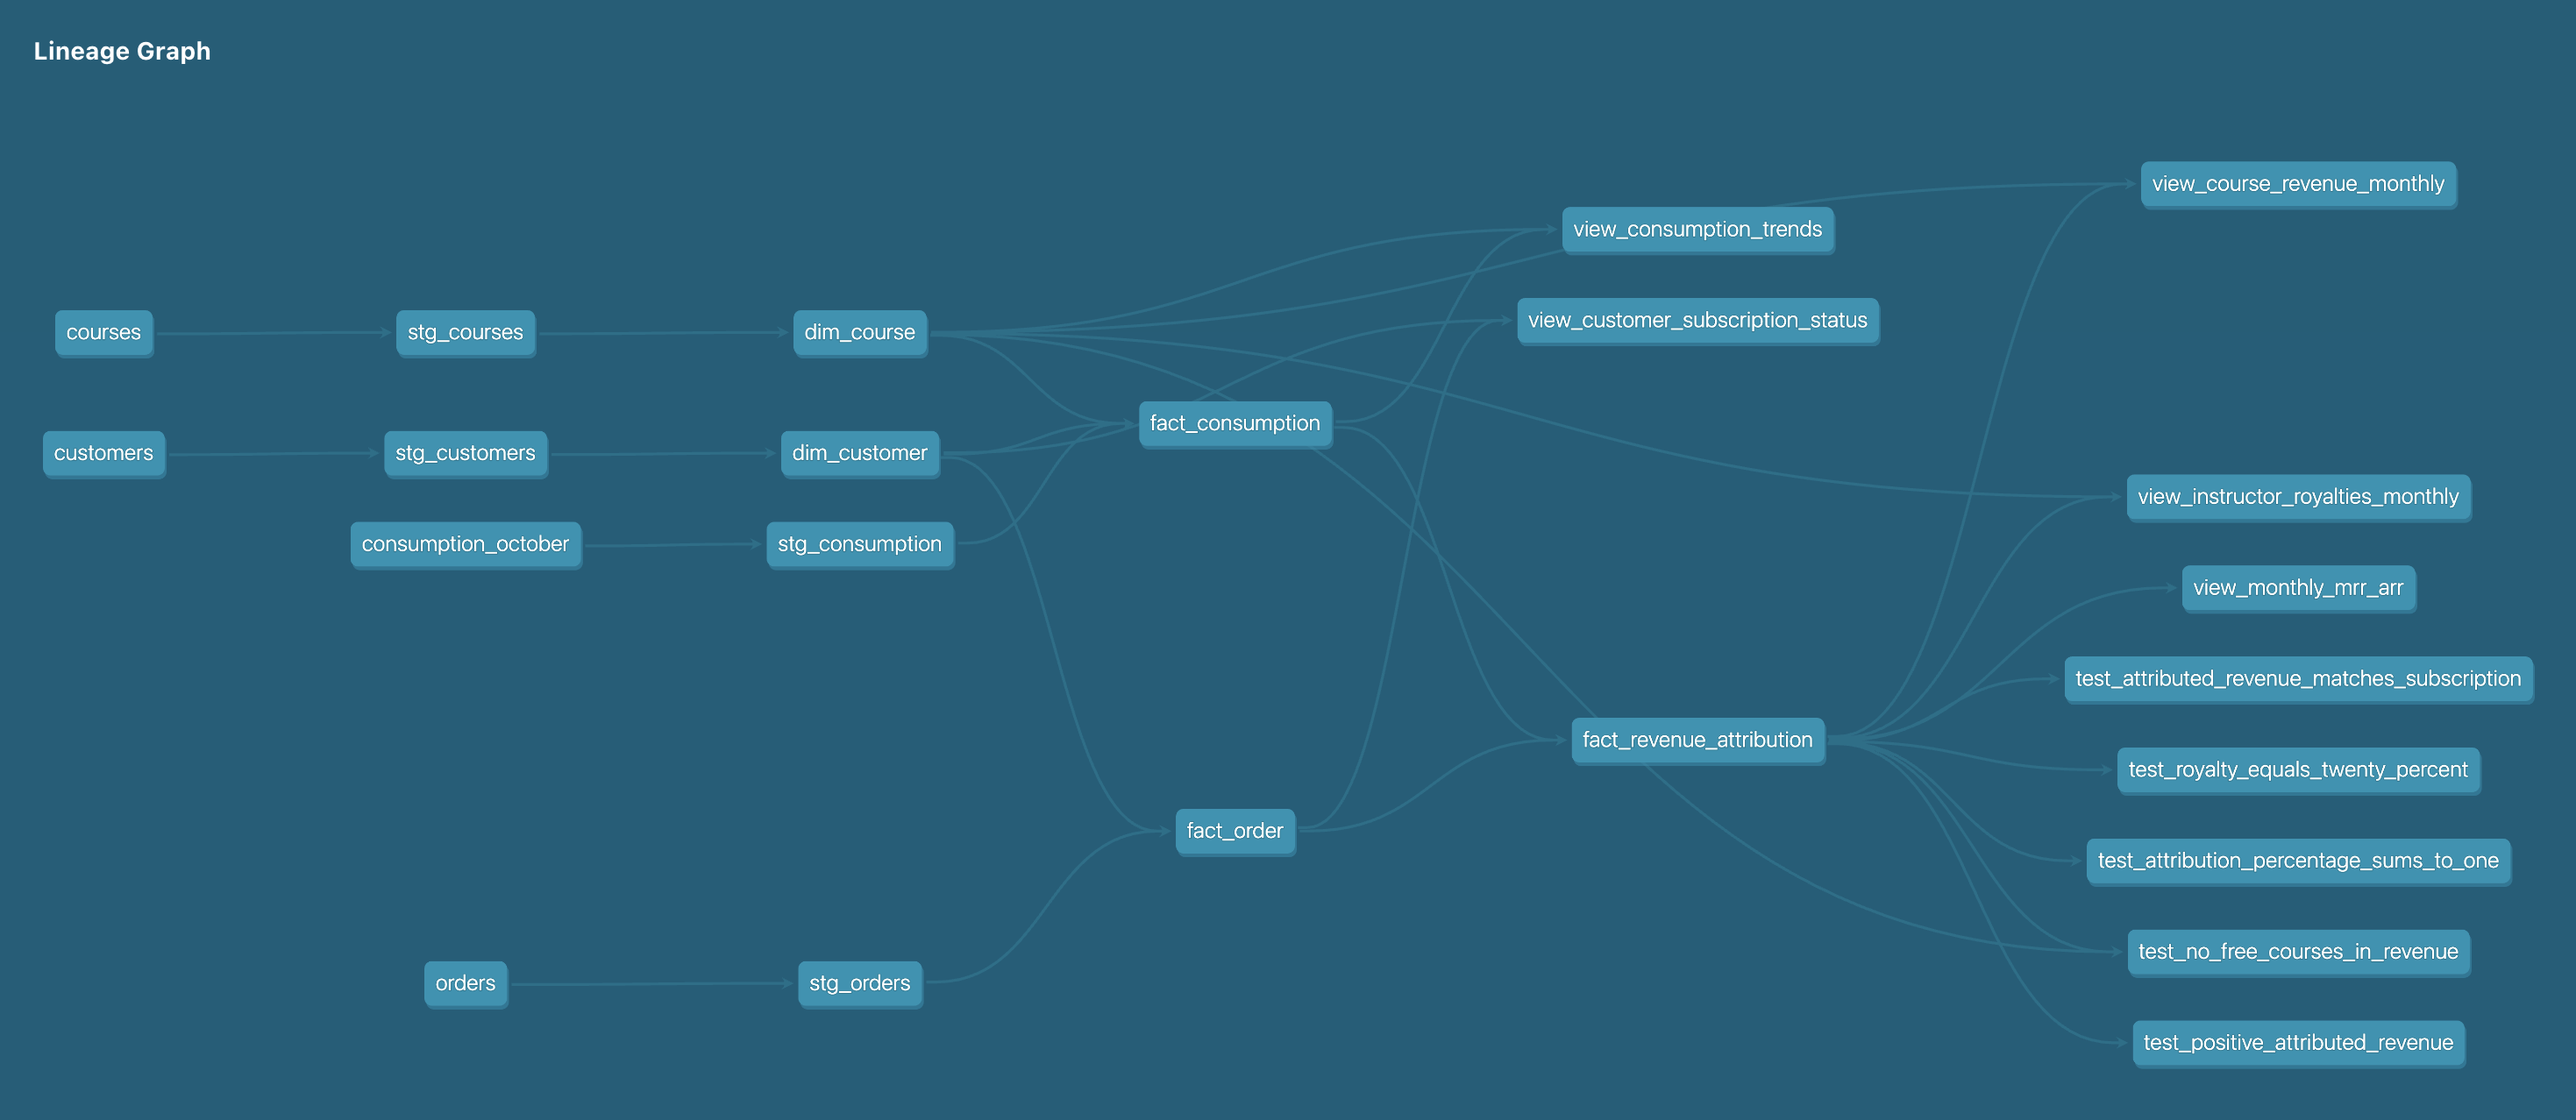
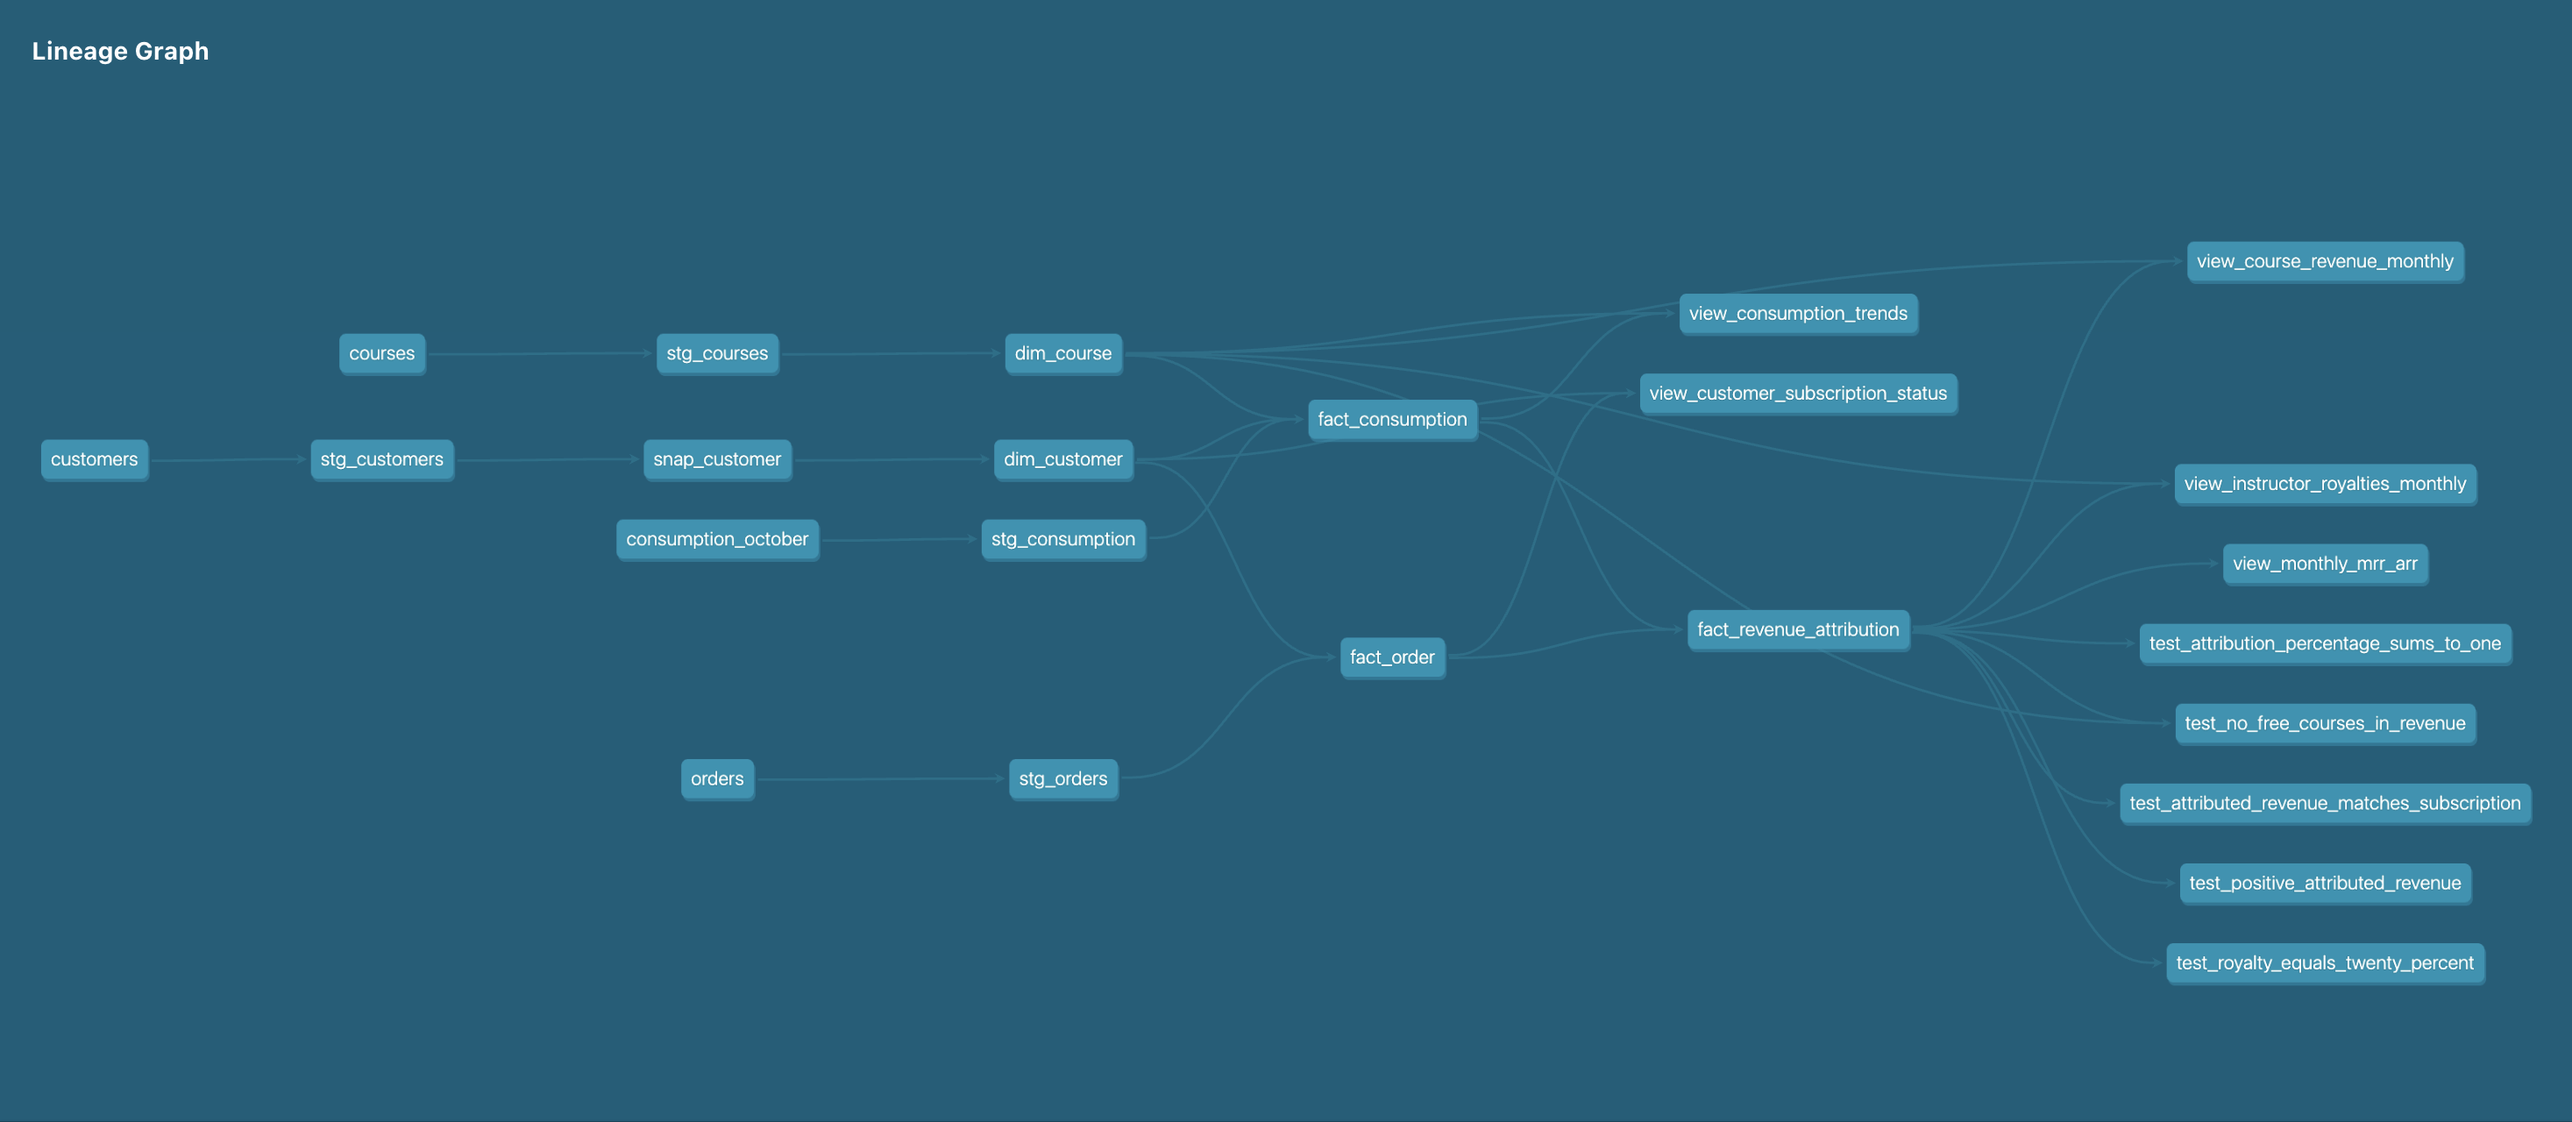
Update DEPLOYMENT.md with actual 6-task DAG, Airflow setup in SETUP.md, screenshots

diff --git a/DEPLOYMENT.md b/DEPLOYMENT.md
@@ -103,6 +103,8 @@ jobs:
 
 ## Airflow Orchestration
 
+> **Status:** DAG deployed and tested locally. All 6 tasks executed successfully in sequence.
+
 ### DAG Structure
 
 ```python
@@ -111,8 +113,13 @@ from airflow import DAG
 from airflow.operators.bash import BashOperator
 from datetime import datetime, timedelta
 
+DBT_PROJECT_DIR = "~/kodekloud_assignment"
+DBT_VENV_ACTIVATE = "source ~/data-stack/dbt-venv/bin/activate"
+
 default_args = {
     'owner': 'data-platform',
+    'depends_on_past': False,
+    'email_on_failure': True,
     'retries': 2,
     'retry_delay': timedelta(minutes=5),
 }
@@ -120,36 +127,56 @@ default_args = {
 with DAG(
     'kk_data_pipeline',
     default_args=default_args,
+    description='KodeKloud dbt pipeline: seed, run, test',
     schedule_interval='@daily',
     start_date=datetime(2022, 10, 1),
     catchup=False,
+    tags=['dbt', 'kodekloud', 'data-platform'],
 ) as dag:
 
-    seed = BashOperator(
+    dbt_seed = BashOperator(
         task_id='dbt_seed',
-        bash_command='cd ~/kodekloud_assignment && dbt seed',
+        bash_command=f'{DBT_VENV_ACTIVATE} && cd {DBT_PROJECT_DIR} && dbt seed --full-refresh',
     )
 
-    run = BashOperator(
-        task_id='dbt_run',
-        bash_command='cd ~/kodekloud_assignment && dbt run',
+    dbt_run_staging = BashOperator(
+        task_id='dbt_run_staging',
+        bash_command=f'{DBT_VENV_ACTIVATE} && cd {DBT_PROJECT_DIR} && dbt run --select models/staging',
     )
 
-    test = BashOperator(
+    dbt_run_dimensions = BashOperator(
+        task_id='dbt_run_dimensions',
+        bash_command=f'{DBT_VENV_ACTIVATE} && cd {DBT_PROJECT_DIR} && dbt run --select models/marts/dimensions',
+    )
+
+    dbt_run_facts = BashOperator(
+        task_id='dbt_run_facts',
+        bash_command=f'{DBT_VENV_ACTIVATE} && cd {DBT_PROJECT_DIR} && dbt run --select models/marts/facts',
+    )
+
+    dbt_run_analytics = BashOperator(
+        task_id='dbt_run_analytics',
+        bash_command=f'{DBT_VENV_ACTIVATE} && cd {DBT_PROJECT_DIR} && dbt run --select models/marts/analytics_views',
+    )
+
+    dbt_test = BashOperator(
         task_id='dbt_test',
-        bash_command='cd ~/kodekloud_assignment && dbt test',
+        bash_command=f'{DBT_VENV_ACTIVATE} && cd {DBT_PROJECT_DIR} && dbt test',
     )
 
-    seed >> run >> test
+    dbt_seed >> dbt_run_staging >> dbt_run_dimensions >> dbt_run_facts >> dbt_run_analytics >> dbt_test
 ```
 
 ### Schedule
 
 | Task | Frequency | Time |
 |------|-----------|------|
-| dbt seed | Daily (or on new data arrival) | 02:00 UTC |
-| dbt run | Daily | 02:15 UTC |
-| dbt test | Daily (after run) | 02:30 UTC |
+| dbt_seed | Daily (or on new data arrival) | 02:00 UTC |
+| dbt_run_staging | Daily (after seed) | 02:05 UTC |
+| dbt_run_dimensions | Daily (after staging) | 02:10 UTC |
+| dbt_run_facts | Daily (after dimensions) | 02:15 UTC |
+| dbt_run_analytics | Daily (after facts) | 02:20 UTC |
+| dbt_test | Daily (after analytics) | 02:25 UTC |
 
 ---
 
@@ -250,7 +277,7 @@ dbt run --target prod
 | dbt seeds (CSV) | Real-time source systems | Fivetran/Airbyte for ingestion |
 | Local PostgreSQL | Cloud data warehouse | BigQuery or Snowflake |
 | Full refresh models | Millions of rows | Incremental models with merge strategy |
-| Manual dbt commands | Scheduled runs | Airflow DAGs with alerting |
+| Airflow DAG (deployed locally) | Scheduled runs at scale | Cloud Composer with alerting |
 | Single schema | Multi-environment | Separate dev/staging/prod schemas |
 | No monitoring | Pipeline observability | Elementary or dbt Cloud for monitoring |
 

diff --git a/SETUP.md b/SETUP.md
@@ -186,9 +186,51 @@ dbt build
 
 Expected output: PASS=69 WARN=0 ERROR=0 SKIP=0 NO-OP=0 TOTAL=69
 
+## 8. Set Up Airflow (Optional — Orchestration)
+
+Create and activate the Airflow virtual environment:
+
+```bash
+cd ~/data-stack
+python3.11 -m venv airflow-venv
+source airflow-venv/bin/activate
+pip install --upgrade pip setuptools wheel
+
+AIRFLOW_VERSION=2.9.3
+PYTHON_VERSION=3.11
+CONSTRAINT_URL="https://raw.githubusercontent.com/apache/airflow/constraints-$${AIRFLOW_VERSION}/constraints-$${PYTHON_VERSION}.txt"
+
+pip install "apache-airflow==$${AIRFLOW_VERSION}" --constraint "$${CONSTRAINT_URL}"
+pip install psycopg2-binary
+
+export AIRFLOW_HOME=~/airflow
+airflow db migrate
+
+airflow users create \
+  --username admin \
+  --firstname Admin \
+  --lastname User \
+  --role Admin \
+  --email admin@example.com \
+  --password admin
+
+mkdir -p ~/airflow/dags
+cp ~/kodekloud_assignment/pipelines/orchestration/dbt_pipeline_dag.py ~/airflow/dags/
+
+source ~/data-stack/airflow-venv/bin/activate
+export AIRFLOW_HOME=~/airflow
+airflow webserver --port 8080
+
+source ~/data-stack/airflow-venv/bin/activate
+export AIRFLOW_HOME=~/airflow
+airflow scheduler
+
+
+
+```
 ---
 
-## 8. Verify the Output
+## 9. Verify the Output
 
 Connect to PostgreSQL and check the results:
 
@@ -216,7 +258,7 @@ select * from public.view_course_revenue_monthly limit 10;
 
 ---
 
-## 9. Troubleshooting
+## 10. Troubleshooting
 
 ### psql command not found
 Add PostgreSQL to PATH:
@@ -238,7 +280,7 @@ This is expected. The dbt_project.yml is already included in the repository. Ski
 
 ---
 
-## 10. Notes
+## 11. Notes
 
 - dbt seeds are used for CSV ingestion because the source data is static files.
 - If dbt init fails in an existing project directory, dbt_project.yml can be created manually (already included in repo).

diff --git a/TODO.md b/TODO.md
@@ -18,10 +18,10 @@ This document outlines improvements and features that would be added with more t
 - Use `merge` strategy with appropriate unique keys
 - Critical for production scale with millions of rows
 
-### 3. Airflow DAG Deployment
-- DAG file exists at `pipelines/orchestration/dbt_pipeline_dag.py`
-- Deploy to Airflow and test end-to-end scheduled execution
-- Add Slack alerting on task failures
+### 3. ~~Airflow DAG Deployment~~ ✅ DONE
+- DAG deployed and tested in local Airflow
+- All 6 tasks executed successfully: seed → staging → dimensions → facts → analytics → test
+- Slack alerting to be added for production
 
 ### 4. Date Dimension
 - Create a proper dim_date table for time-series analysis

diff --git a/ARCHITECTURE.md b/ARCHITECTURE.md
@@ -341,7 +341,7 @@ erDiagram
 | Ingestion | dbt seeds (CSV) | Fivetran/Airbyte from source systems |
 | Database | Local PostgreSQL | BigQuery (KodeKloud's preferred) |
 | Models | Full refresh tables | Incremental models with merge strategy |
-| Orchestration | Manual dbt commands | Airflow DAGs with daily schedule |
+| Orchestration | Airflow DAG (deployed and tested) | Airflow DAGs with daily schedule |
 | SCD Type 2 | dbt snapshot (snap_customer) | dbt snapshots with incremental tracking |
 | Testing | 50 dbt tests | dbt tests + Great Expectations + anomaly detection |
 | Monitoring | Manual validation | Elementary or dbt Cloud for observability |

diff --git a/README.md b/README.md
@@ -342,7 +342,6 @@ See [ARCHITECTURE.md](ARCHITECTURE.md) for detailed architecture design and trad
 
 If given more time, I would add:
 
-2. **Airflow DAG** to orchestrate dbt seed, run, and test as a scheduled pipeline
 3. **Customer cohort analysis** for retention tracking
 4. **dbt docs generate** for auto-generated lineage diagrams
 5. **Incremental models** for fact tables to support daily refreshes at scale
